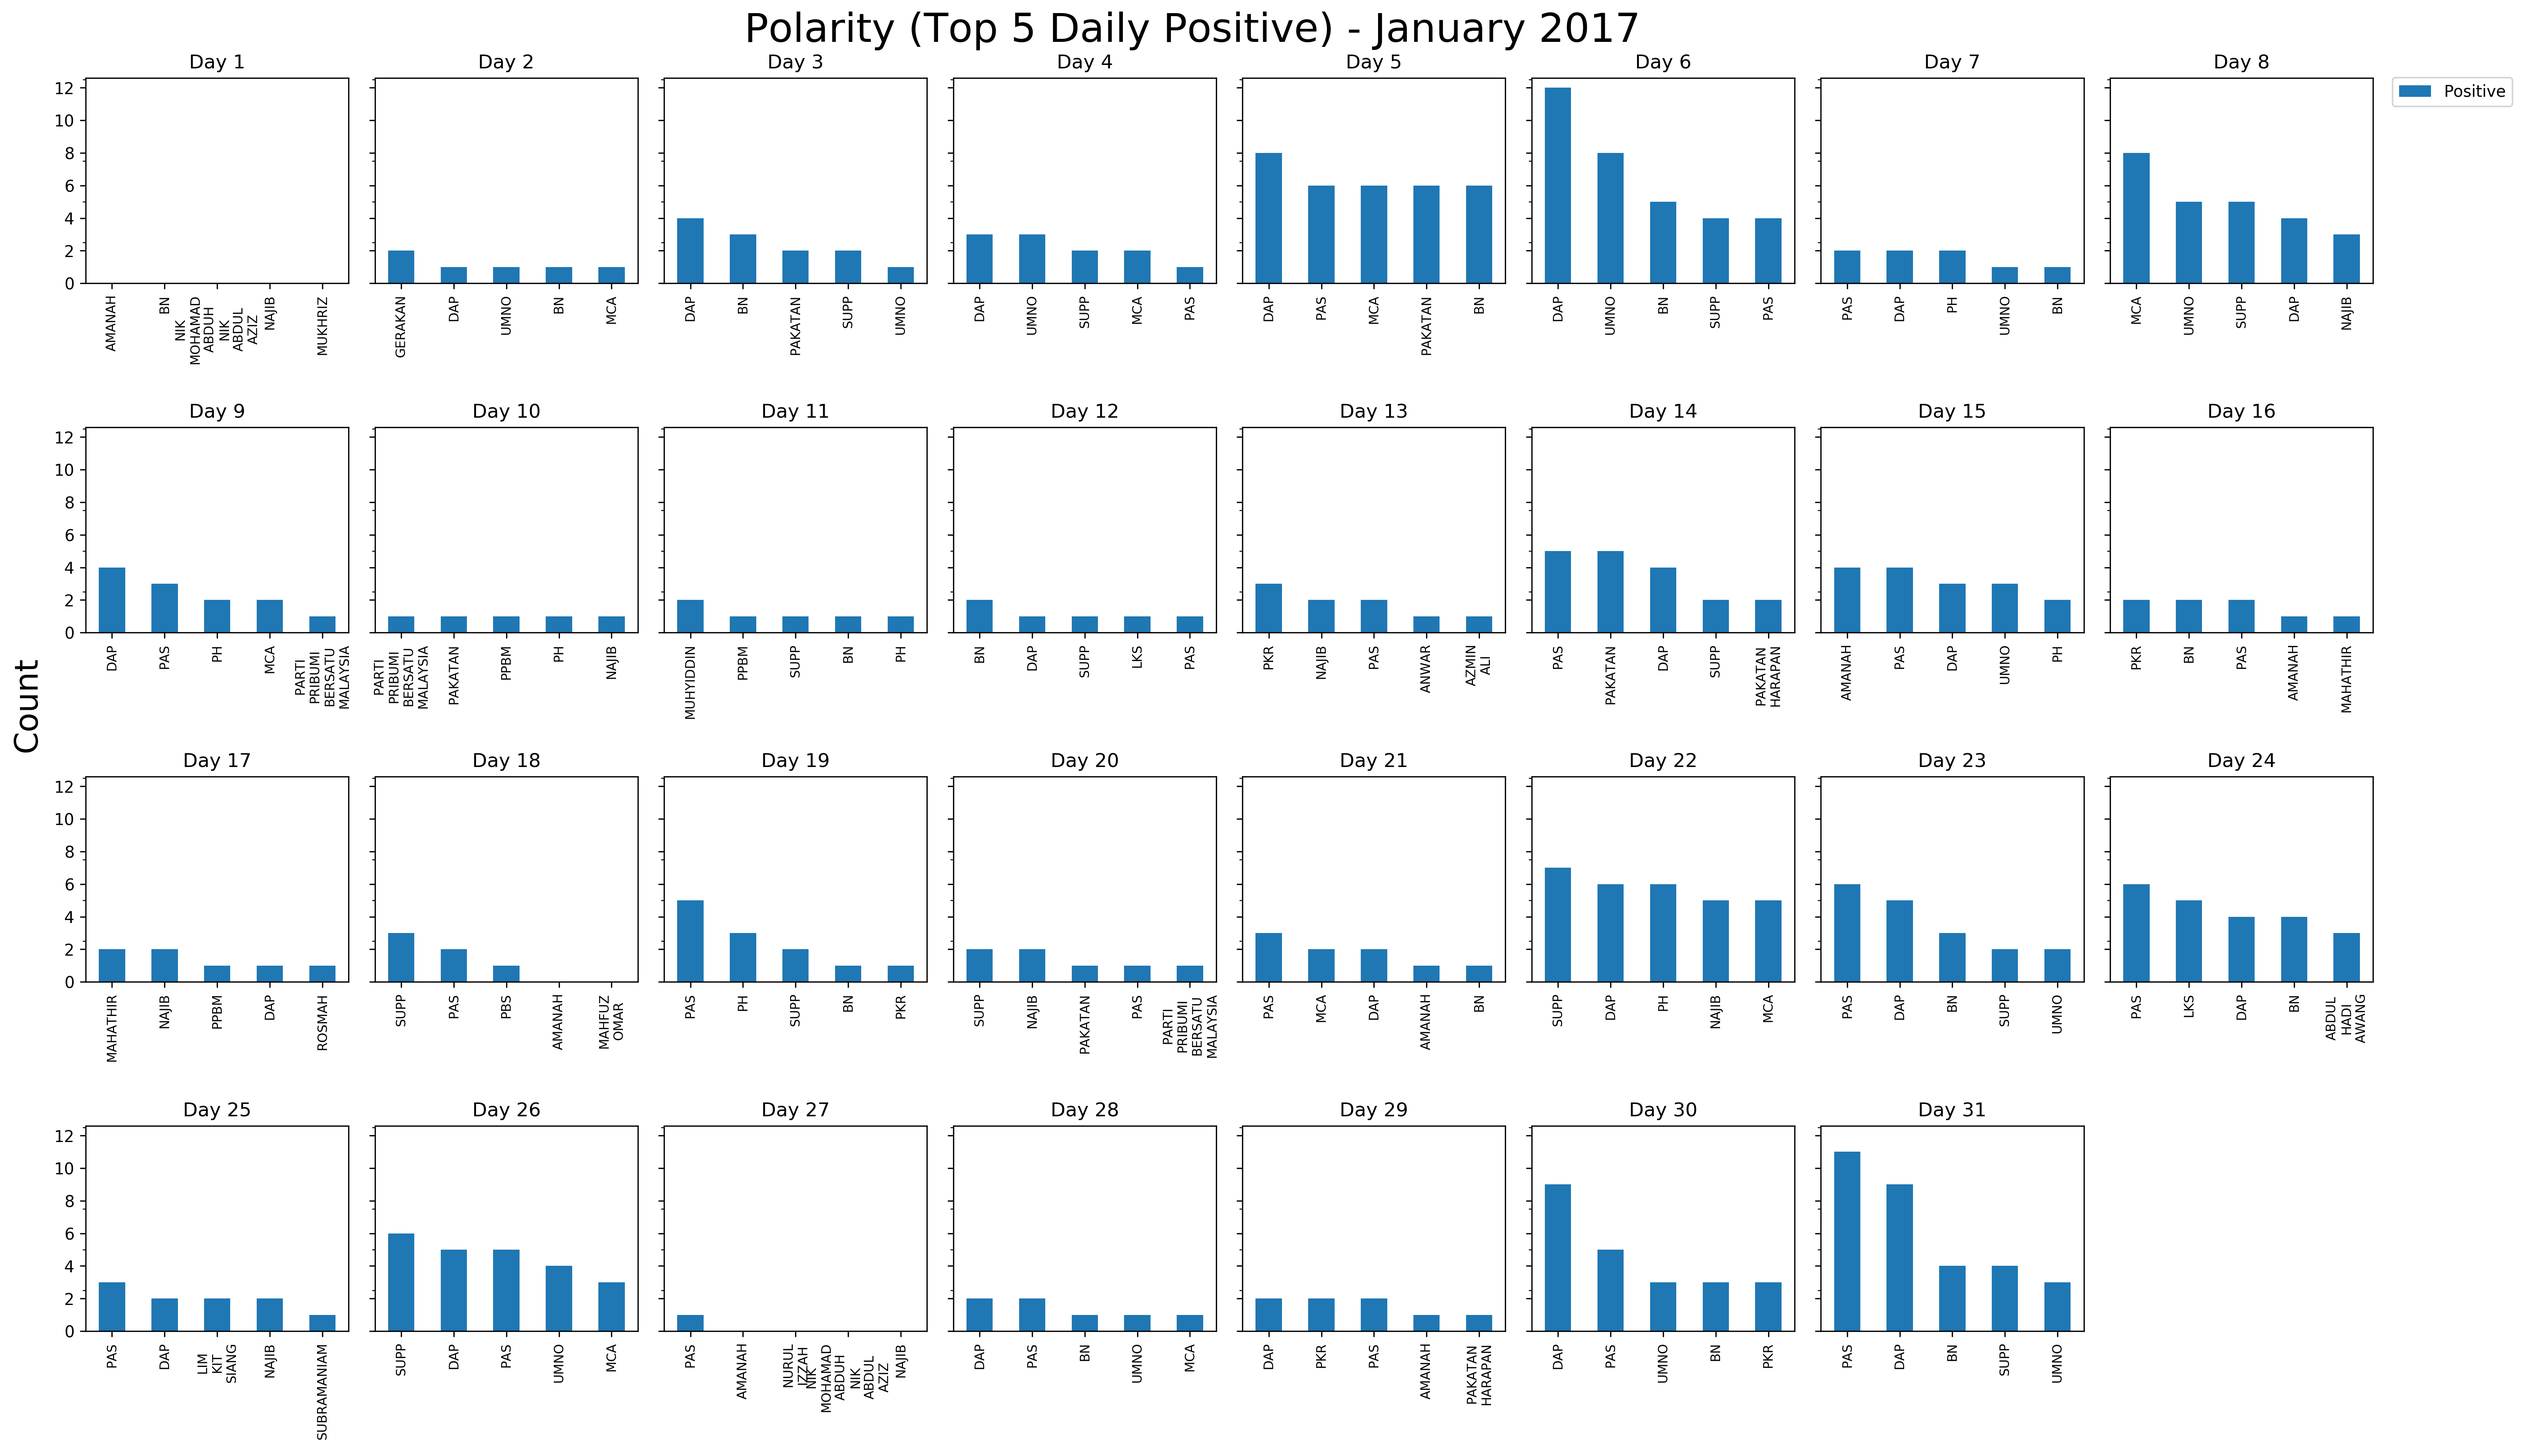
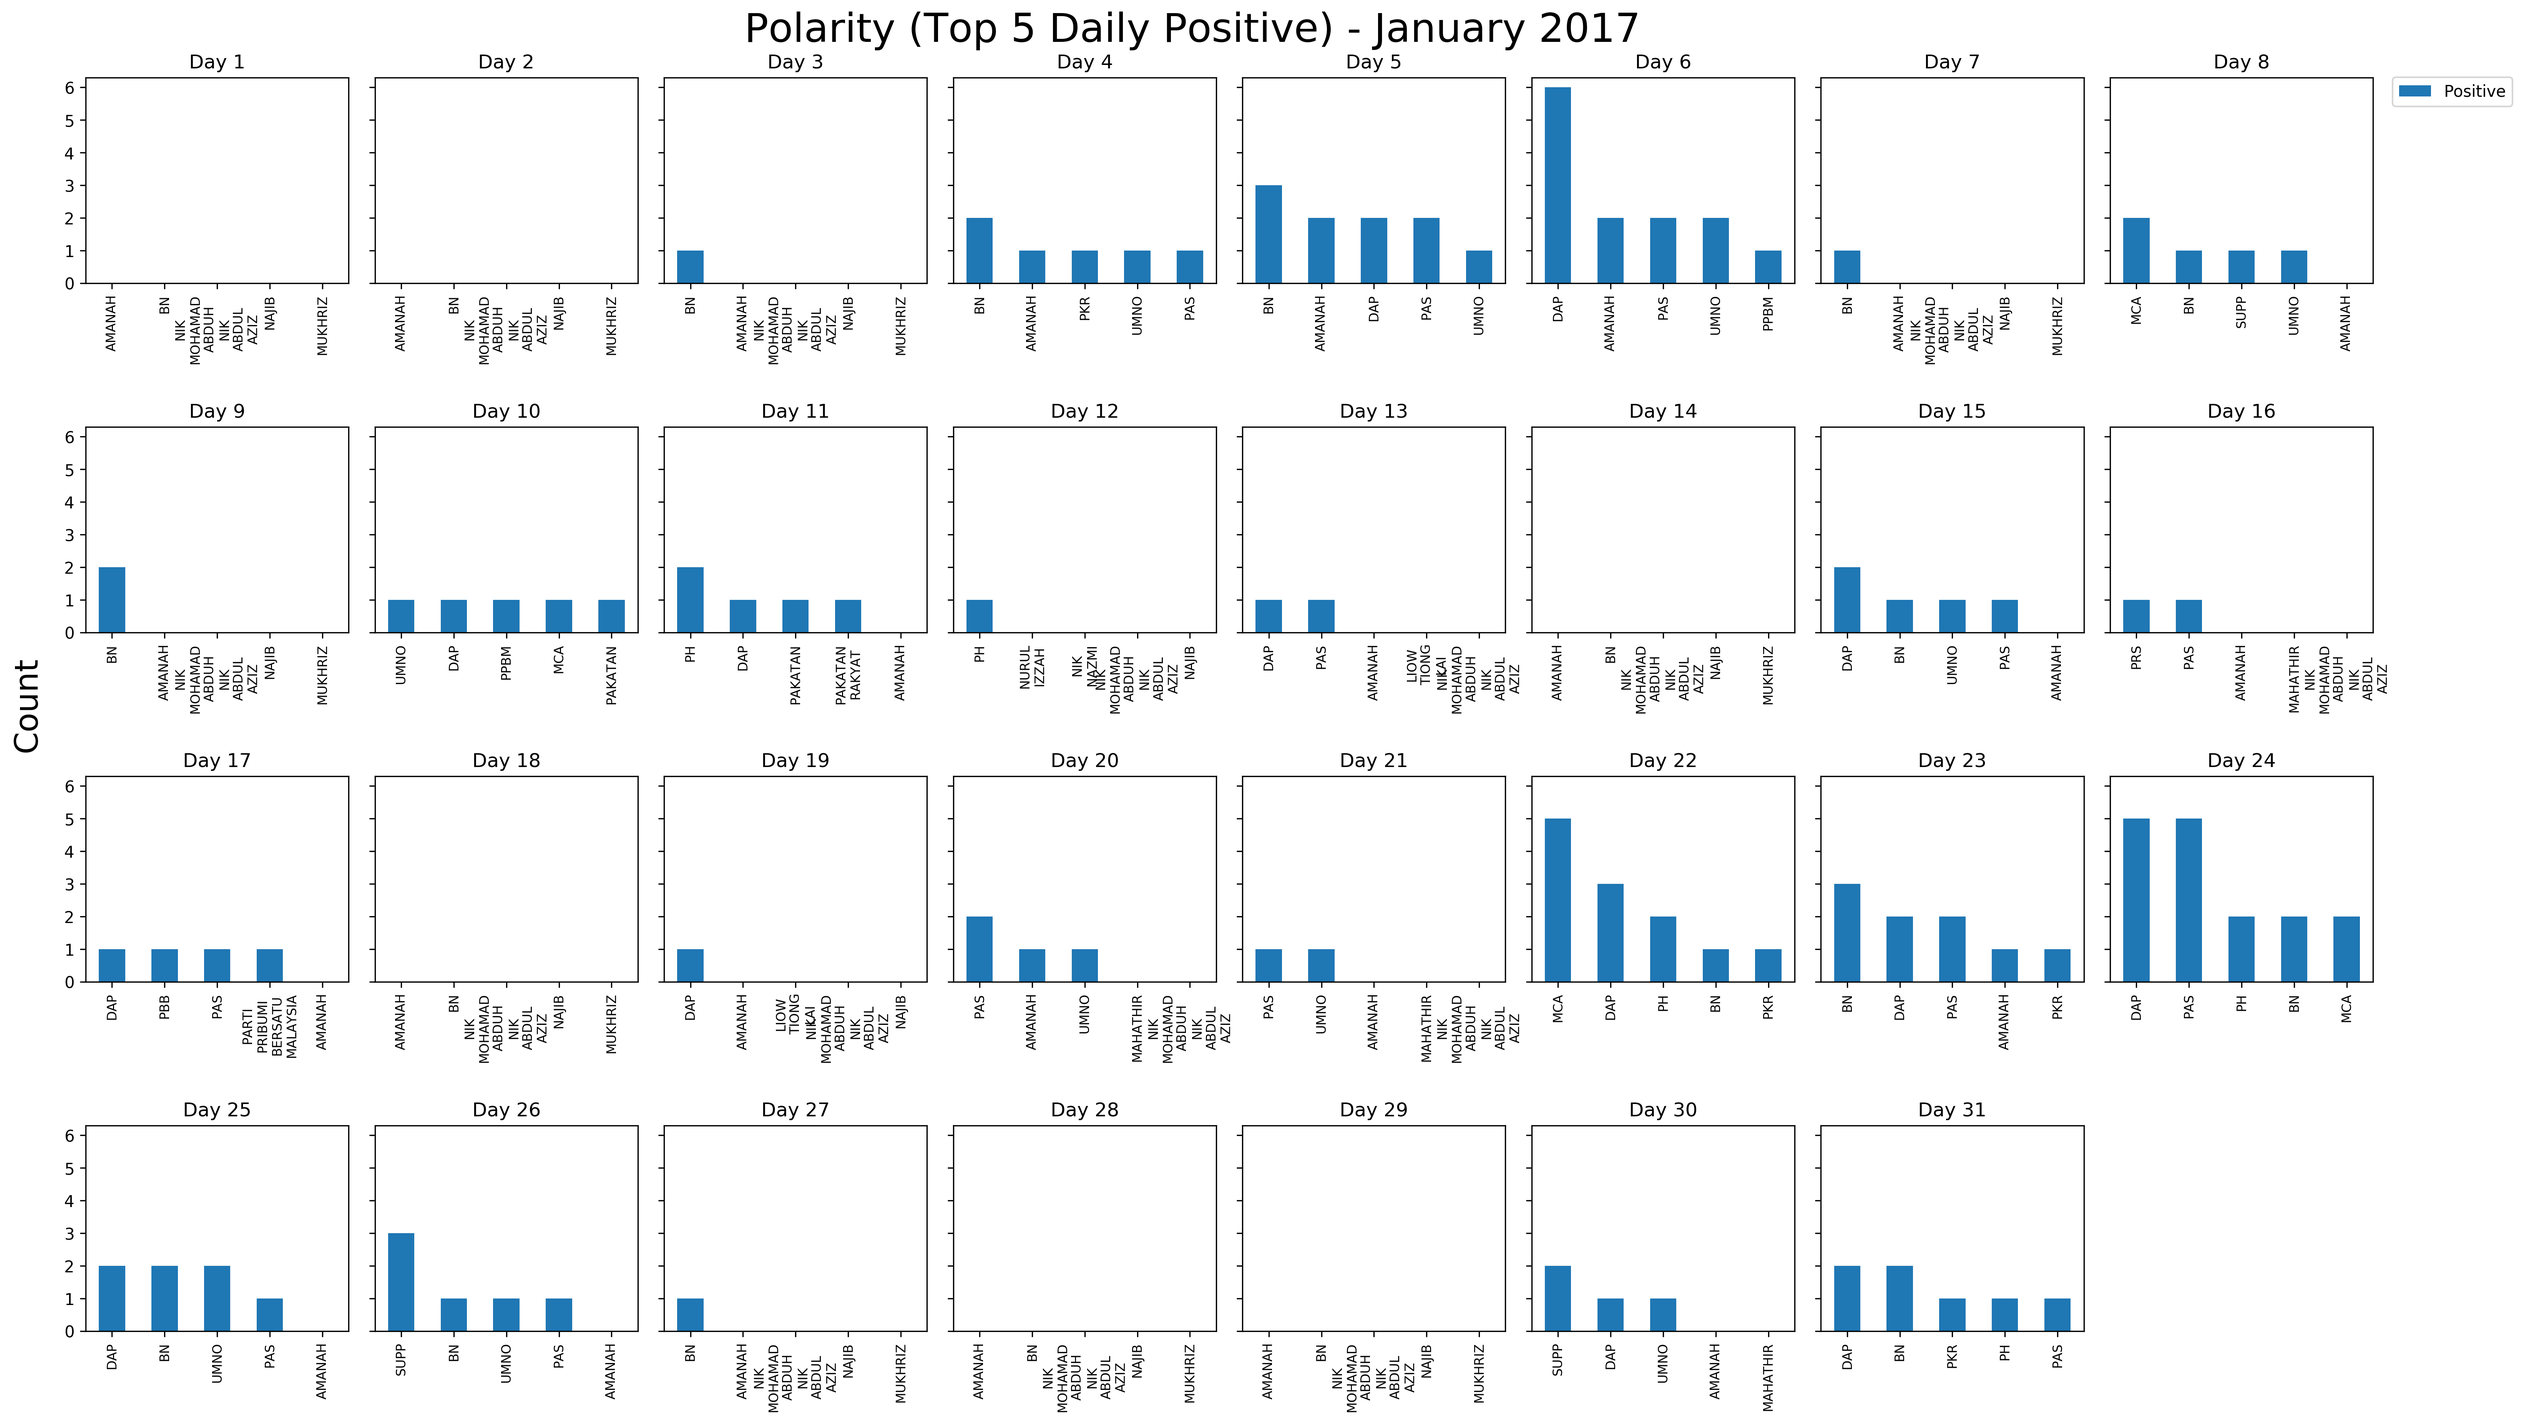
swap postive and negative

diff --git a/plot_negative.py b/plot_negative.py
@@ -7,7 +7,7 @@ import calendar
 
 def plot_subplots(df, axes):
     df1 = df
-    splt1 = df1.plot(ax=axes, kind='bar', color='r')
+    splt1 = df1.plot(ax=axes, kind='bar', color='C1')
     labels = df1['name'].tolist()
     labels = [x.upper().replace(' ','\n') for x in labels]
     splt1.set_xticklabels(labels, fontsize=8, rotation=90)
@@ -18,7 +18,7 @@ def get_top3_daily(df_main, no_of_days):
     top3_daily_list = []
     for i in range(1, no_of_days+1):
         df = df_main[['name','scale','%d'%i]]
-        df_positive = df.loc[df['scale'] == 2]
+        df_positive = df.loc[df['scale'] == 1]
         series_positive_top3 = df_positive.sort_values('%d'%i, ascending=False).reset_index().loc[[0,1,2,3,4]].drop('index', axis=1)
         series_positive_top3 = series_positive_top3.drop('scale', axis=1)
         top3_daily_list.append(series_positive_top3)
@@ -72,7 +72,7 @@ def plot_perception(filename):
     
     #Custom legend
     lines, labels = axes[0,0].get_legend_handles_labels()
-    fig.legend(lines, ['Positive'], bbox_to_anchor=(0.95, 0.885), bbox_transform=plt.gcf().transFigure)
+    fig.legend(lines, ['Negative'], bbox_to_anchor=(0.95, 0.885), bbox_transform=plt.gcf().transFigure)
     #Save plot
     filename_datestamp = datetime.datetime.strptime(date_str, '%B %Y')
     filename_datestamp = datetime.datetime.strftime(filename_datestamp, '%Y%m')

diff --git a/plot_positive.py b/plot_positive.py
@@ -7,7 +7,7 @@ import calendar
 
 def plot_subplots(df, axes):
     df1 = df
-    splt1 = df1.plot(ax=axes, kind='bar')
+    splt1 = df1.plot(ax=axes, kind='bar', color='C0')
     labels = df1['name'].tolist()
     labels = [x.upper().replace(' ','\n') for x in labels]
     splt1.set_xticklabels(labels, fontsize=8, rotation=90)
@@ -18,7 +18,7 @@ def get_top3_daily(df_main, no_of_days):
     top3_daily_list = []
     for i in range(1, no_of_days+1):
         df = df_main[['name','scale','%d'%i]]
-        df_positive = df.loc[df['scale'] == 1]
+        df_positive = df.loc[df['scale'] == 2]
         series_positive_top3 = df_positive.sort_values('%d'%i, ascending=False).reset_index().loc[[0,1,2,3,4]].drop('index', axis=1)
         series_positive_top3 = series_positive_top3.drop('scale', axis=1)
         top3_daily_list.append(series_positive_top3)
